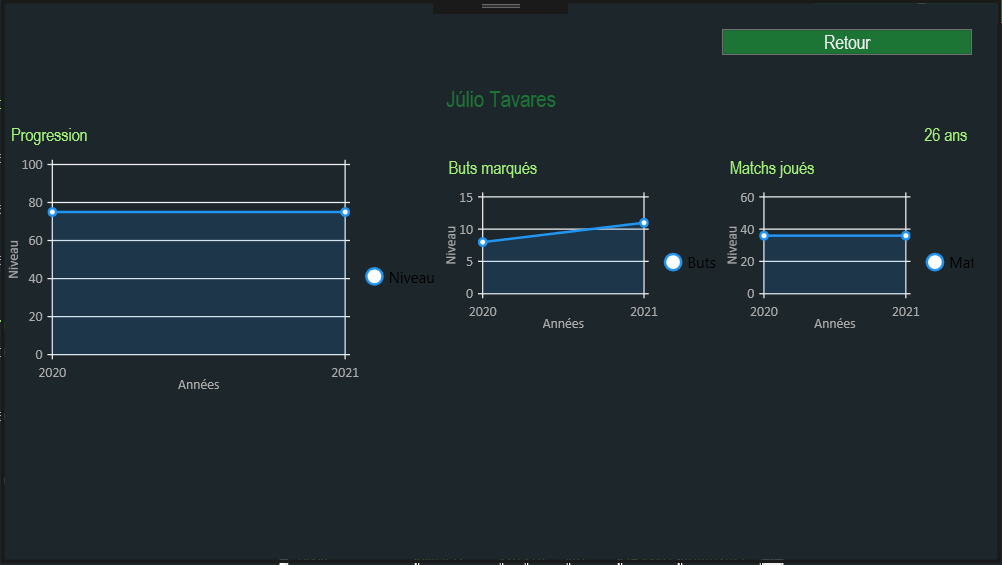
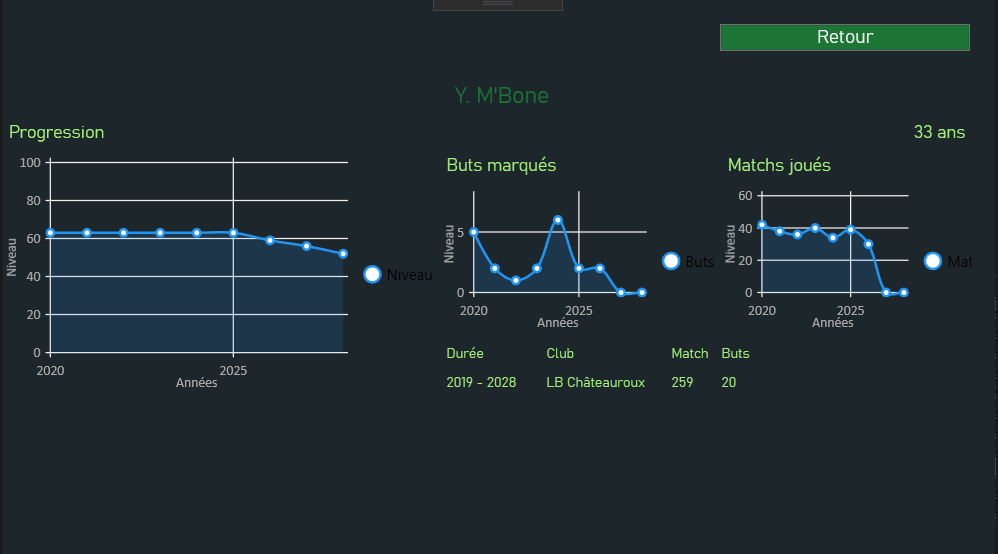
Add player history panel

diff --git a/TheManager_GUI/Windows_Joueur.xaml b/TheManager_GUI/Windows_Joueur.xaml
@@ -55,13 +55,11 @@
 							</lvc:CartesianChart>
 						</StackPanel>
 					</StackPanel>
-					<DataGrid IsReadOnly="True" HorizontalAlignment="Center" MaxHeight="150" Name="dgHistorique"  Style="{StaticResource StyleDataGrid}" CellStyle="{StaticResource StyleDataCellGrid}" ColumnHeaderStyle="{StaticResource StyleDataHeaderGrid}">
-						<DataGrid.Columns>
-							<DataGridTextColumn Header="Arrivée" Binding="{Binding AnneeA}"/>
-							<DataGridTextColumn Header="Départ" Binding="{Binding AnneeD}"/>
-							<DataGridTextColumn Header="Club" Binding="{Binding Club}"/>
-						</DataGrid.Columns>
-					</DataGrid>
+					<ScrollViewer VerticalScrollBarVisibility="Auto" Height="150">
+						<StackPanel x:Name="spPlayerHistory" Orientation="Vertical">
+							
+						</StackPanel>
+					</ScrollViewer>
 				</StackPanel>
 			</StackPanel>
 

diff --git a/TheManager_GUI/Windows_Joueur.xaml.cs b/TheManager_GUI/Windows_Joueur.xaml.cs
@@ -2,6 +2,7 @@
 using LiveCharts.Wpf;
 using System;
 using System.Windows;
+using System.Windows.Controls;
 using TheManager;
 
 namespace TheManager_GUI
@@ -25,6 +26,7 @@ namespace TheManager_GUI
 
             if(joueur.history.Count > 0)
             {
+                /*
                 Club precedant = null;
                 int arrivee = joueur.history[0].Year;
                 foreach (PlayerHistory hj in joueur.history)
@@ -44,7 +46,7 @@ namespace TheManager_GUI
                     precedant = hj.Club;
                 }
                 dgHistorique.Items.Add(new JoueurHistoriqueElement { Club = precedant, AnneeA = arrivee, AnneeD = joueur.history[joueur.history.Count-1].Year });
-
+                */
             }
 
             ChartValues<int> niveaux = new ChartValues<int>();
@@ -93,22 +95,69 @@ namespace TheManager_GUI
             }
  
             DataContext = this;
+
+            FillPlayerHistory(joueur);
         }
 
         private void BtnQuitter_Click(object sender, RoutedEventArgs e)
         {
             Close();
         }
-    }
 
-    public struct JoueurHistoriqueElement : IEquatable<JoueurHistoriqueElement>
-    {
-        public int AnneeA { get; set; }
-        public int AnneeD { get; set; }
-        public Club Club { get; set; }
-        public bool Equals(JoueurHistoriqueElement other)
+        private void FillPlayerHistory(Player player)
         {
-            throw new NotImplementedException();
+
+            StackPanel firstLine = new StackPanel();
+            firstLine.Orientation = Orientation.Horizontal;
+            firstLine.Children.Add(ViewUtils.CreateLabel("Durée", "StyleLabel2", 11, 80));
+            firstLine.Children.Add(ViewUtils.CreateLabel("Club", "StyleLabel2", 11, 100));
+            firstLine.Children.Add(ViewUtils.CreateLabel("Matchs", "StyleLabel2", 11, 40));
+            firstLine.Children.Add(ViewUtils.CreateLabel("Buts", "StyleLabel2", 11, 40));
+            spPlayerHistory.Children.Add(firstLine);
+
+            int cumulativeGoals = 0;
+            int cumulativeMatchesPlayed = 0;
+
+            if(player.history.Count > 0)
+            {
+                Club last = null;
+                int arrival = player.history[0].Year;
+                foreach (PlayerHistory hj in player.history)
+                {
+                    if (last == null)
+                    {
+                        last = hj.Club;
+                    }
+                    else if (last != hj.Club)
+                    {
+                        int depart = hj.Year;
+
+                        StackPanel line = new StackPanel();
+                        line.Orientation = Orientation.Horizontal;
+                        line.Children.Add(ViewUtils.CreateLabel((arrival - 1).ToString() + " - " + player.history[player.history.Count - 1].Year.ToString(), "StyleLabel2", 11, 80));
+                        line.Children.Add(ViewUtils.CreateLabel(last.name, "StyleLabel2", 11, 100));
+                        line.Children.Add(ViewUtils.CreateLabel(cumulativeMatchesPlayed.ToString(), "StyleLabel2", 11, 40));
+                        line.Children.Add(ViewUtils.CreateLabel(cumulativeGoals.ToString(), "StyleLabel2", 11, 40));
+                        spPlayerHistory.Children.Add(line);
+
+                        cumulativeGoals = 0;
+                        cumulativeMatchesPlayed = 0;
+                        arrival = hj.Year;
+                    }
+                    cumulativeGoals += hj.Goals;
+                    cumulativeMatchesPlayed += hj.GamesPlayed;
+                    last = hj.Club;
+                }
+
+                StackPanel lastLine = new StackPanel();
+                lastLine.Orientation = Orientation.Horizontal;
+                lastLine.Children.Add(ViewUtils.CreateLabel((arrival-1).ToString() + " - " + player.history[player.history.Count - 1].Year.ToString(), "StyleLabel2", 11, 80));
+                lastLine.Children.Add(ViewUtils.CreateLabel(last.name, "StyleLabel2", 11, 100));
+                lastLine.Children.Add(ViewUtils.CreateLabel(cumulativeMatchesPlayed.ToString(), "StyleLabel2", 11, 40));
+                lastLine.Children.Add(ViewUtils.CreateLabel(cumulativeGoals.ToString(), "StyleLabel2", 11, 40));
+                spPlayerHistory.Children.Add(lastLine);
+            }
         }
     }
+
 }

diff --git a/TheManager/Match.cs b/TheManager/Match.cs
@@ -652,7 +652,18 @@ namespace TheManager
             _compo2 = new List<Player>(away.Composition());
             _compo1Terrain = new List<Player>(_compo1);
             _compo2Terrain = new List<Player>(_compo2);
-            
+
+            UpdatePlayersMatchPlayedStat(_compo1);
+            UpdatePlayersMatchPlayedStat(_compo2);
+
+        }
+
+        private void UpdatePlayersMatchPlayedStat(List<Player> compo)
+        {
+            foreach(Player p in compo)
+            {
+                p.playedGames++;
+            }
         }
 
         /// <summary>
@@ -672,6 +683,7 @@ namespace TheManager
                 _compo2 = new List<Player>(compo);
                 _compo2Terrain = new List<Player>(compo);
             }
+            UpdatePlayersMatchPlayedStat(compo);
         }
 
         public void CalculateLevelDifference()
@@ -831,7 +843,6 @@ namespace TheManager
                 {
                     j.energy--;
                 }
-                j.playedGames++;
             }
             foreach (Player j in _compo2)
             {
@@ -839,7 +850,6 @@ namespace TheManager
                 {
                     j.energy--;
                 }
-                j.playedGames++;
             }
 
             int diff = _levelDifference;

diff --git a/Readme.md b/Readme.md
@@ -81,11 +81,11 @@ The Manager is a soccer simulator aiming to simulate tournaments, matchs, and cl
 | Set up international tournaments on multiples years                   | ![#f03c15](https://placehold.it/15/f03c15/000000?text=+) Not started |
 | Correct unrealistic penalty shout-out scores (5-1 f.e.)               | ![#f03c15](https://placehold.it/15/f03c15/000000?text=+) Not started |
 | **GUI**                                                               |                                                                      |
-| Add the player's history in their description                         | ![#f03c15](https://placehold.it/15/f03c15/000000?text=+) Not started |
 | Panel to give infos (transfers, main results) during simulation       | ![#f03c15](https://placehold.it/15/f03c15/000000?text=+) Not started |
 | Improve GUI                                                           | ![#ffa500](https://placehold.it/15/ffa500/000000?text=+) In progress |
 | **Miscellaneous**                                                     |                                                                      |
 | Try to reduce savegame size (135mo / year)                            | ![#f03c15](https://placehold.it/15/f03c15/000000?text=+) Not started |
+| Manage memory for long games                                          | ![#f03c15](https://placehold.it/15/f03c15/000000?text=+) Not started |
 | Several journalists on one game                                       | ![#f03c15](https://placehold.it/15/f03c15/000000?text=+) Not started |
 | (Data editor)                                                         | ![#f03c15](https://placehold.it/15/f03c15/000000?text=+) Not started |
 | (Generate Wiki with simulation data)                                  | ![#f03c15](https://placehold.it/15/f03c15/000000?text=+) Not started |
